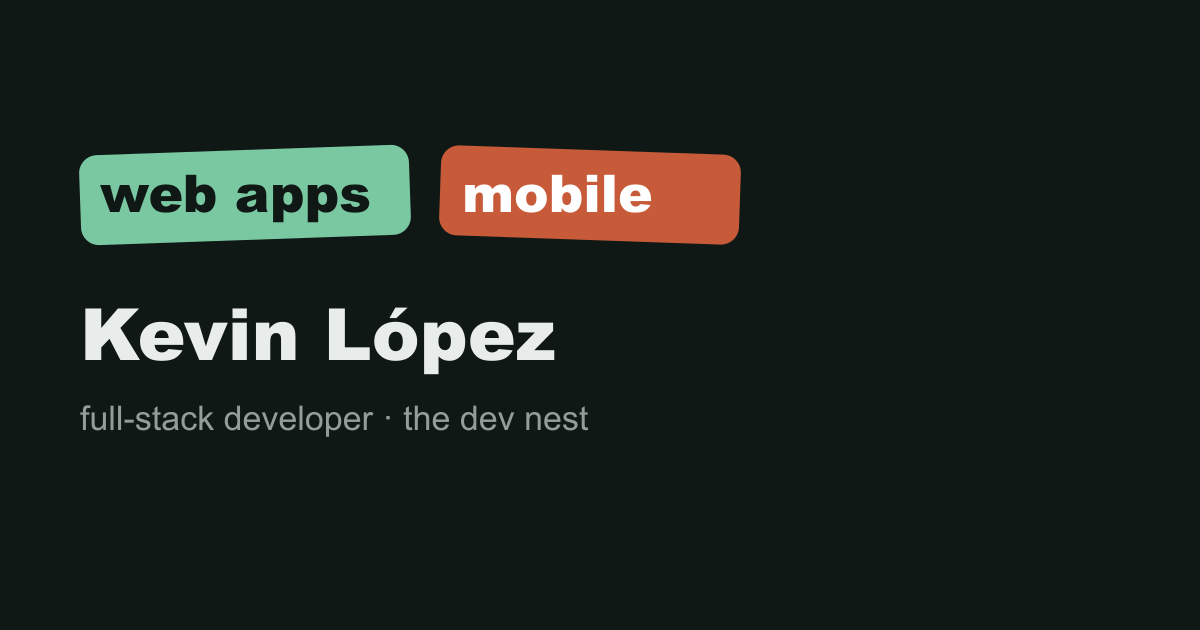
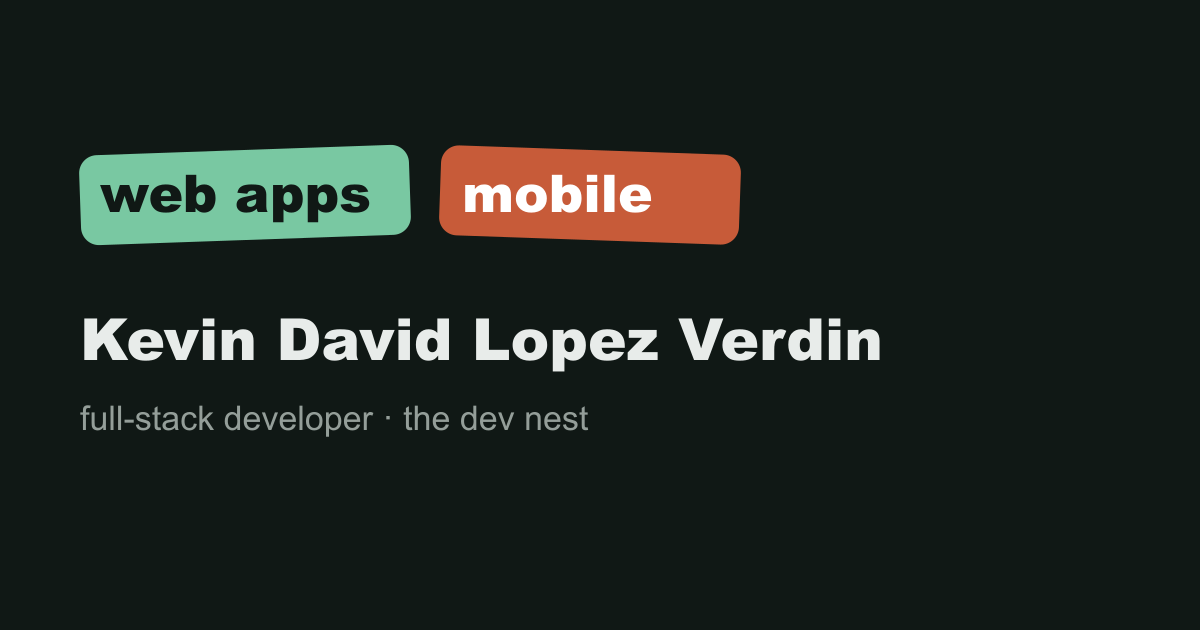
feat: nombre real, handle y dominio kevindlv.com

Changed region(s): [[0.0617, 0.4825, 0.74, 0.6032]]

diff --git a/src/i18n/ui.ts b/src/i18n/ui.ts
@@ -1,7 +1,7 @@
 export type Lang = 'en' | 'es';
 
 const en = {
-  'meta.title': 'Kevin López — Full-stack & mobile developer', // KEVIN-TODO nombre real
+  'meta.title': 'Kevin David Lopez Verdin — Full-stack & mobile developer',
   'meta.description': 'Full-stack developer building web and mobile apps, member of The Dev Nest.',
   'nav.about': 'about',
   'nav.stack': 'stack',
@@ -14,7 +14,7 @@ const en = {
   'hero.h1.mobile': 'mobile apps',
   'hero.h1.post': 'that feel',
   'hero.h1.alive': 'alive.',
-  'hero.intro.pre': "I'm Kevin, full-stack developer and member of", // KEVIN-TODO
+  'hero.intro.pre': "I'm Kevin, full-stack developer and member of",
   'hero.intro.post': 'From the database to the last pixel: I obsess over details (spacing, timing, feedback).',
   'hero.cta.talk': "Let's talk",
   'hero.cta.work': 'See my work',
@@ -50,7 +50,7 @@ const en = {
 export type UIKey = keyof typeof en;
 
 const es: Record<UIKey, string> = {
-  'meta.title': 'Kevin López — Desarrollador full-stack y móvil', // KEVIN-TODO nombre real
+  'meta.title': 'Kevin David Lopez Verdin — Desarrollador full-stack y móvil',
   'meta.description': 'Desarrollador full-stack de apps web y móviles, miembro de The Dev Nest.',
   'nav.about': 'sobre mí',
   'nav.stack': 'stack',
@@ -63,7 +63,7 @@ const es: Record<UIKey, string> = {
   'hero.h1.mobile': 'móviles',
   'hero.h1.post': 'que se sienten',
   'hero.h1.alive': 'vivas.',
-  'hero.intro.pre': 'Soy Kevin, desarrollador full-stack y miembro de', // KEVIN-TODO
+  'hero.intro.pre': 'Soy Kevin, desarrollador full-stack y miembro de',
   'hero.intro.post': 'De la base de datos al último pixel: me obsesionan los detalles (espaciado, timing, feedback).',
   'hero.cta.talk': 'Hablemos',
   'hero.cta.work': 'Ver mi trabajo',
